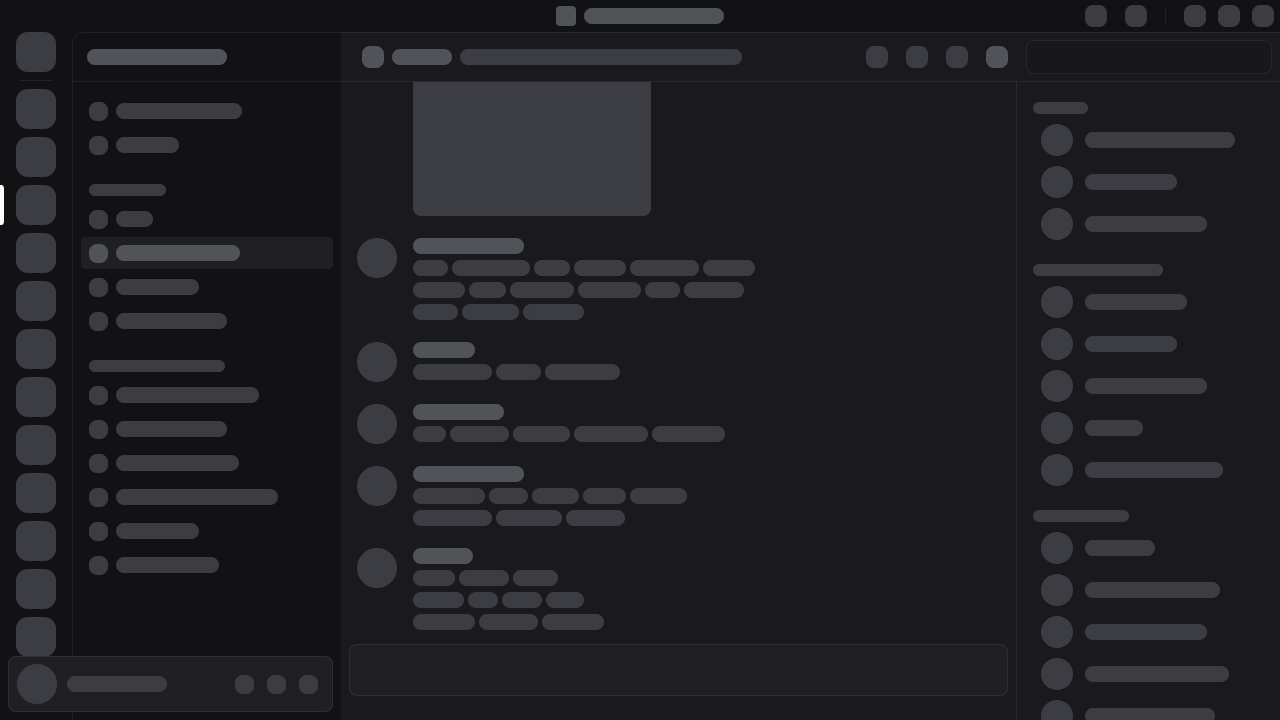
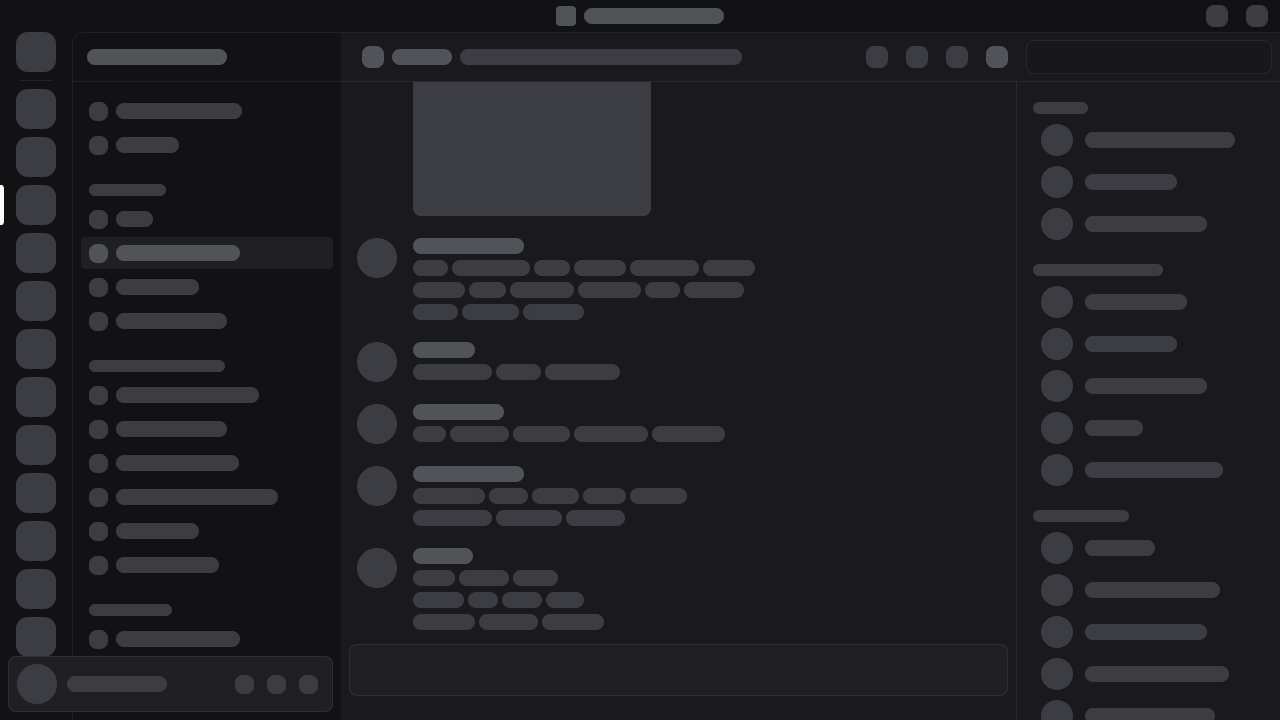
feat(preview): update placholders

Changed region(s): [[0.0625, 0.825, 0.1875, 0.9167], [0.8438, 0.0, 1.0, 0.0611]]

diff --git a/shared/preview/index.jsx b/shared/preview/index.jsx
@@ -4,7 +4,6 @@ import PreviewContext from '@preview/context/PreviewContext'
 import { memo, useEffect, useMemo, useRef, useState } from 'react'
 import { AnimationStore } from '@animation/store'
 import classNames from 'classnames'
-import mainPlaceholder from '@preview/assets/placeholders/main.png'
 import { CSSTransition, TransitionGroup } from '@discord/modules'
 import Settings from '@preview/views/Settings'
 import Layers from '@preview/components/Layers'
@@ -14,6 +13,9 @@ import Popouts from '@preview/components/floating/Popouts'
 import ContextMenus from '@preview/components/floating/ContextMenus'
 import { FloatingLayerContainer } from '@preview/components/Floating'
 import Modals from '@preview/components/floating/Modals'
+import mainPlaceholder from '@preview/assets/placeholders/main.png'
+import settingsPlaceholder from '@preview/assets/placeholders/settings.png'
+import threadSidebarSwitchPlaceholder from '@preview/assets/placeholders/threadSidebarSwitch.png'
 
 export const PREVIEW_WIDTH = 1280
 export const PREVIEW_HEIGHT = 720
@@ -56,6 +58,8 @@ function Preview ({
     if (typeof placeholder === 'string') return placeholder
 
     switch (module?.id) {
+      case ModuleKey.Settings: return settingsPlaceholder
+      case ModuleKey.ThreadSidebarSwitch: return threadSidebarSwitchPlaceholder
       default: return mainPlaceholder
     }
   }, [placeholder, module])
